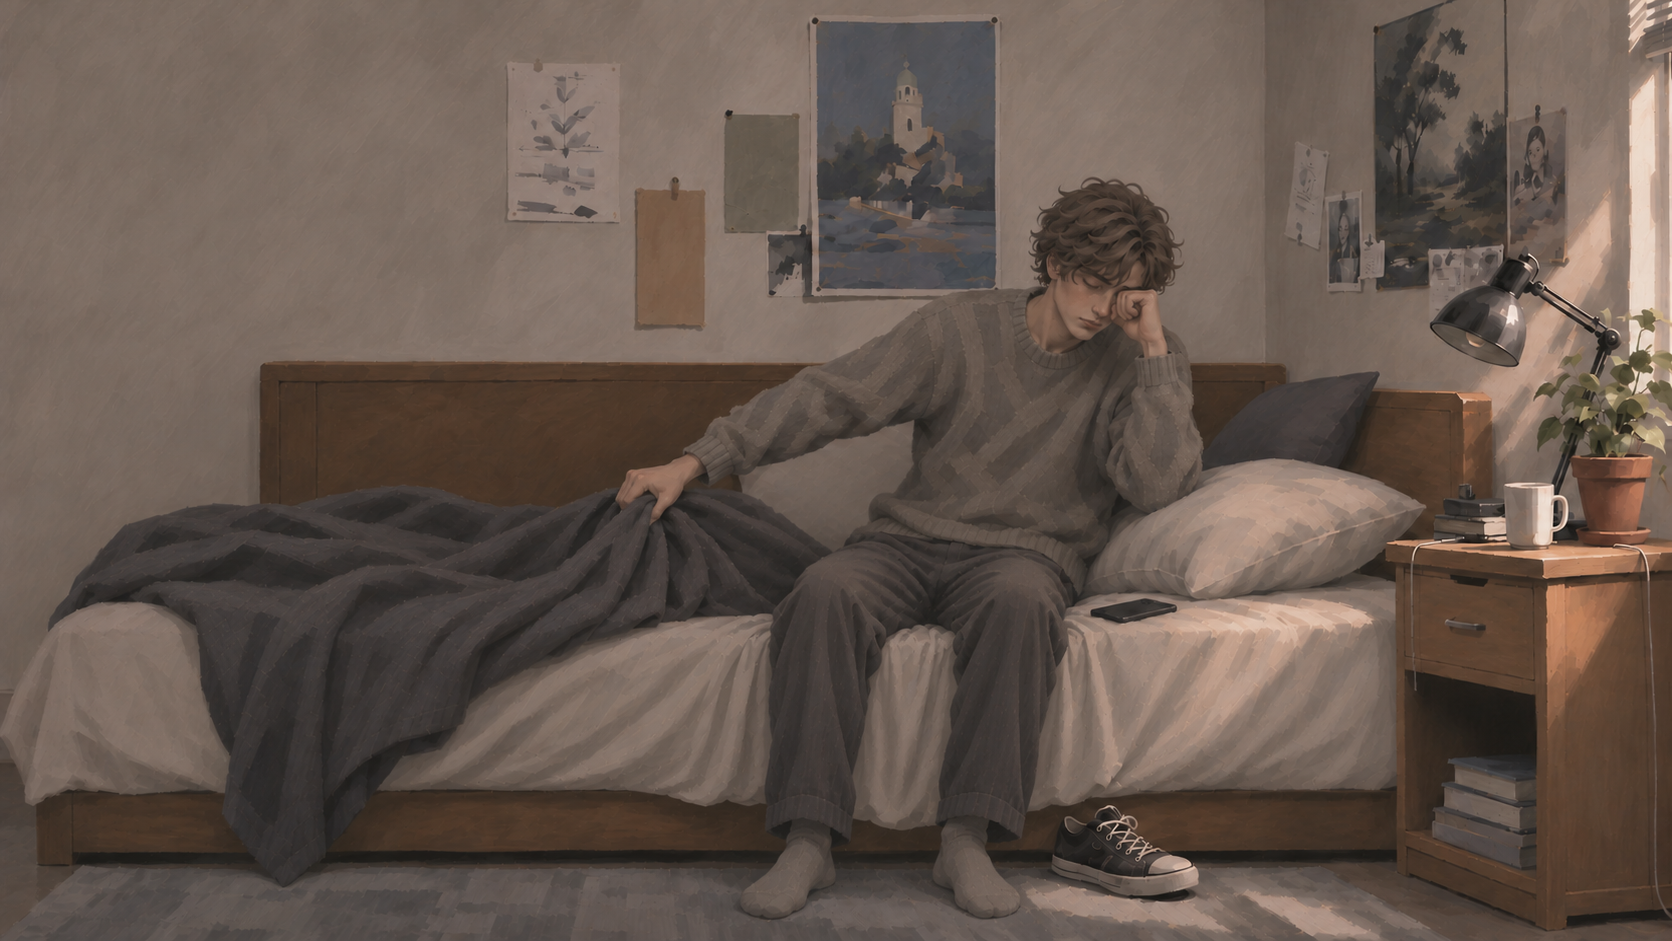
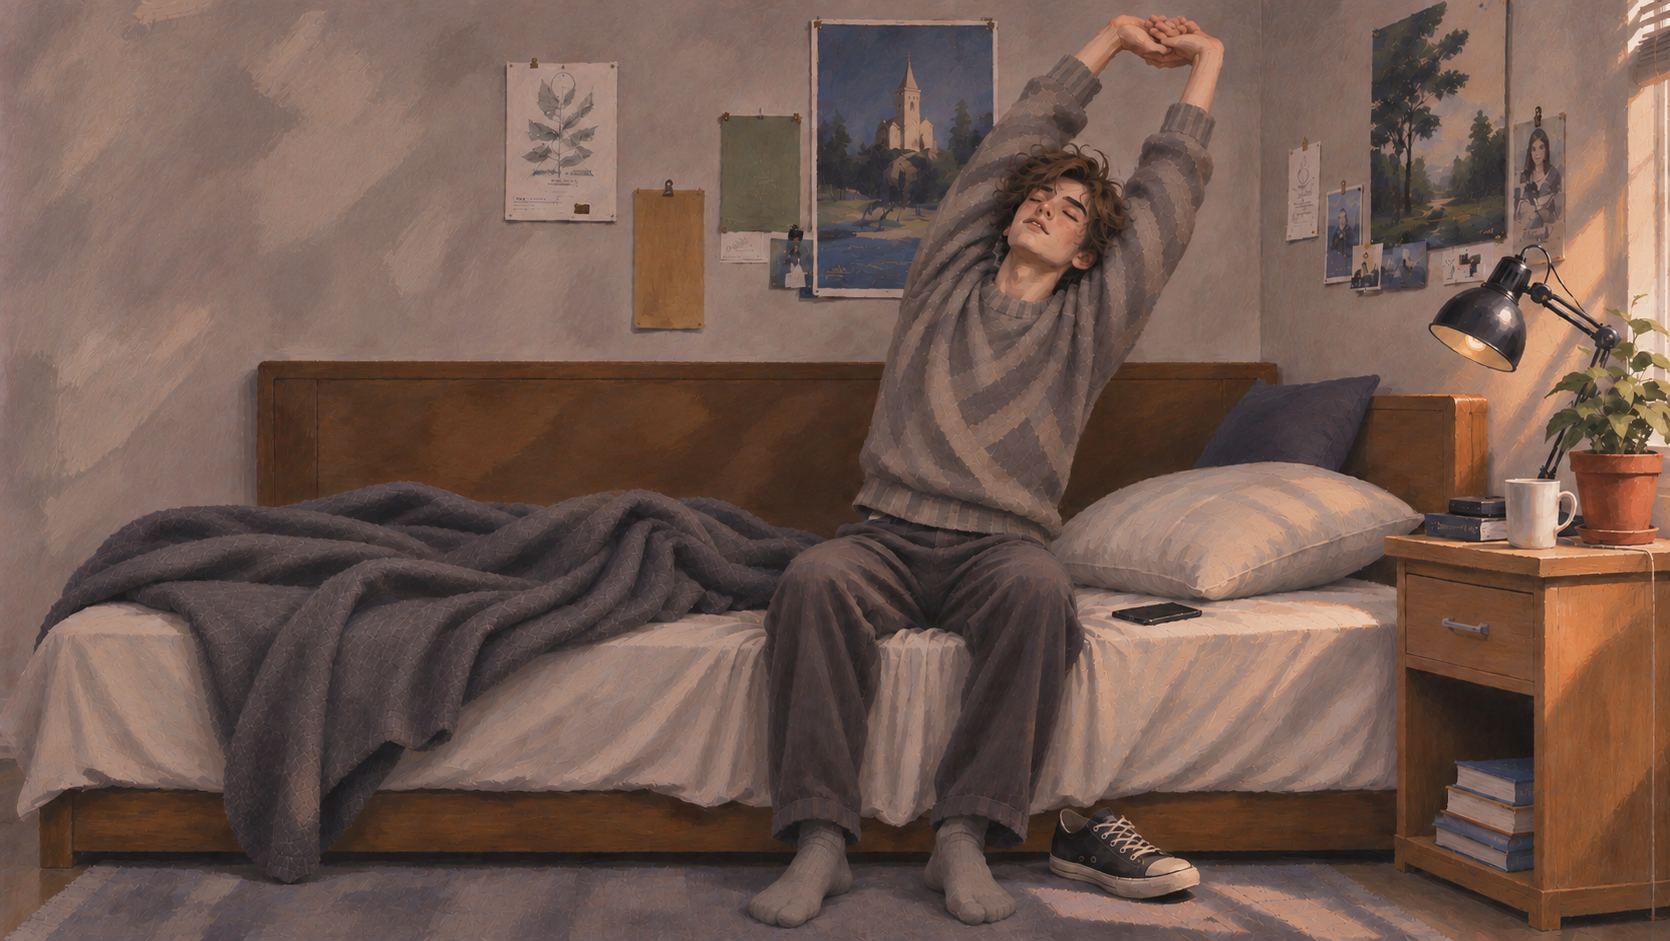
Actualiza las ilustraciones de las escenas iniciales de Bryan

diff --git a/escena_visual.py b/escena_visual.py
@@ -11,8 +11,8 @@ PHOTO = 'img/escenas/foto_salon_1987.png'
 AREAS = {
     'bryan_s01': {'telefono': (64, 62, 8, 6)},
     'bryan_s01_mensaje': {
-        'zapato': (44, 60, 7, 7), 'ventilador': (68, 24, 9, 39),
-        'mochila': (62, 44, 10, 18), 'cocina': (1, 20, 9, 43),
+        'zapato': (43, 76, 7, 7), 'ventilador': (75, 31, 8, 24),
+        'mochila': (70, 55, 9, 23),
     },
     'bryan_s02': {'alimentar': (29, 48, 10, 10)},
     'bryan_s03_orden': {
@@ -50,18 +50,27 @@ def presentation(entry, choices, puzzle_options, active, part):
     bryan_inicio = scene_id == 'bryan_s01' and entry['character'] == 'BRYAN'
     if bryan_inicio:
         if entry.get('text') == 'Cinco minutos más':
-            background = 'img/escenas/BG01_bryan_en_cama.png'
+            background = 'img/escenas/BG01_bryan_con_celular.png'
+        elif entry.get('text') == '¿No tienen otra persona a quien molestar?':
+            background = 'img/escenas/BG01_bryan_sentado.png'
         else:
             background = 'img/escenas/BG01_bryan_al_borde.png'
     elif scene_id == 'bryan_s01' and entry['character'] == 'NARRADOR':
         background = 'img/escenas/BG01_celular_1037.png'
+    elif scene_id == 'bryan_s01_mensaje':
+        if entry.get('text') == 'La mesa…':
+            background = 'img/escenas/BG01_bryan_la_mesa.png'
+        elif entry.get('text') == '¡LA MESA!':
+            background = 'img/escenas/BG01_bryan_se_calza.png'
+        else:
+            background = 'img/escenas/BG01_bryan_lee_mensaje.png'
     elif 'BG05_' in background:
         background = SALON
     elif 'BG06_' in background:
         background = ALMACEN
     portrait = None
     if entry['character'] == 'BRYAN':
-        if scene_id == 'bryan_s01_mensaje' or scene_id.startswith('bryan_s11_'):
+        if scene_id.startswith('bryan_s11_'):
             portrait = 'bryan_sorprendido.png'
         elif scene_id in ('bryan_s02', 'bryan_s11'):
             portrait = 'bryan_cocina.png'
@@ -70,6 +79,8 @@ def presentation(entry, choices, puzzle_options, active, part):
         for action, options in [('choice', choices), ('puzzle', puzzle_options)]:
             for option in options:
                 area = AREAS.get(scene_id, {}).get(option['id'])
+                if background == 'img/escenas/BG01_bryan_se_calza.png' and option['id'] == 'zapato':
+                    area = (41, 86, 9, 8)
                 if area:
                     hotspots.append(dict(action=action, value=option['id'], label=option['text'],
                                          x=area[0], y=area[1], w=area[2], h=area[3]))
